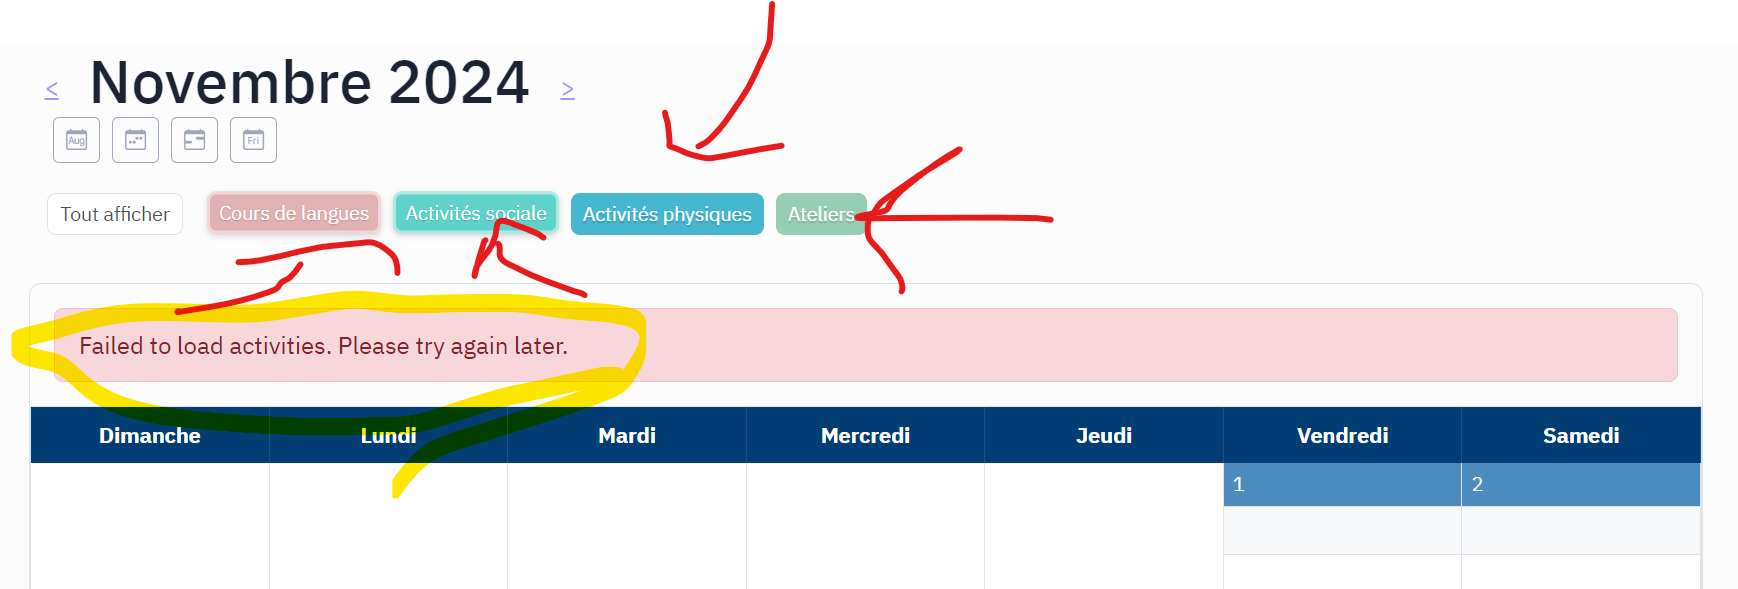
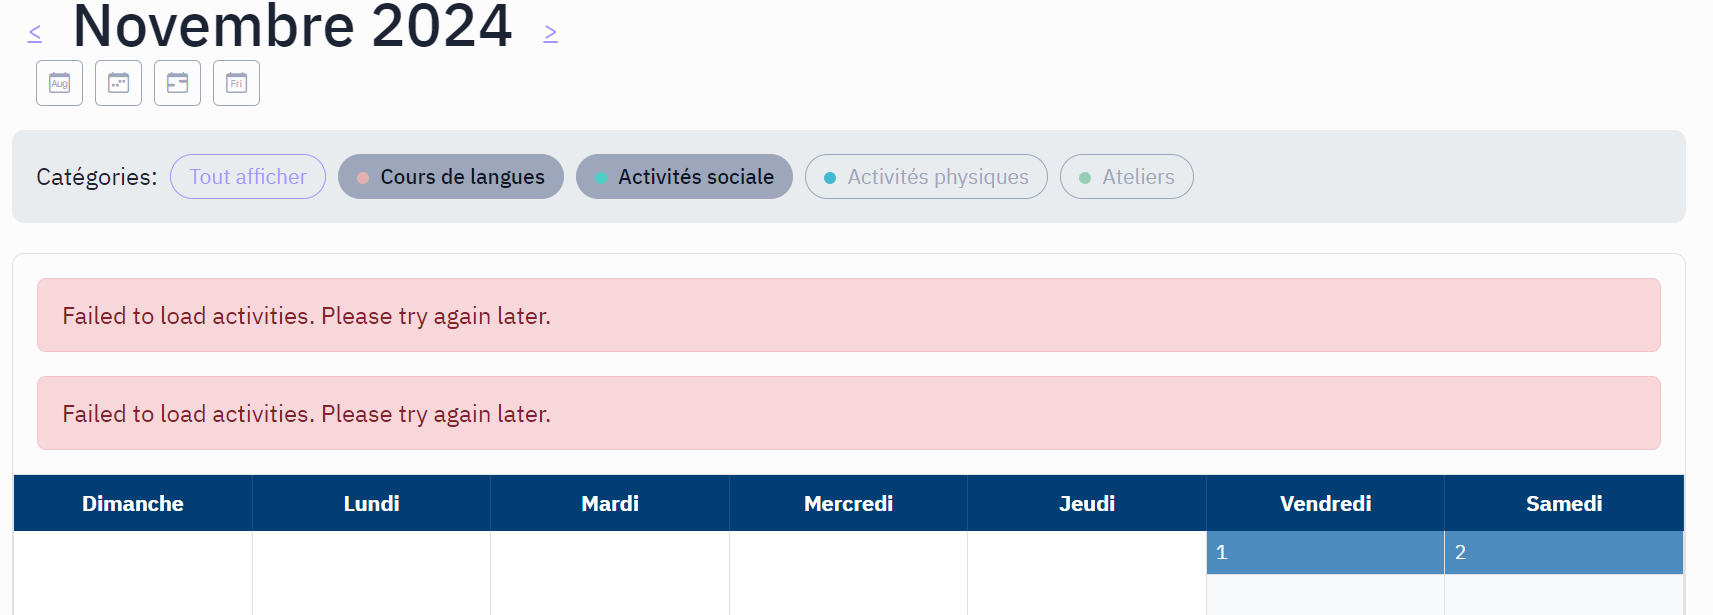
Agent query: Can you see the category filters above the calendar? Please verify if clicking on different category filters shows/hides the corresponding activities.

diff --git a/static/js/calendar.js b/static/js/calendar.js
@@ -51,25 +51,29 @@ document.addEventListener('DOMContentLoaded', function() {
     }
 
     function toggleCategory(categoryId) {
-        const categoryIdStr = categoryId.toString();
         const button = document.querySelector(`[data-category="${categoryId}"]`);
-        const showAllBtn = document.querySelector('[data-category="all"]');
-        
         if (!button) return;
-        
-        if (categoryIdStr === 'all') {
+
+        // Remove existing error message if any
+        const existingError = document.querySelector('.calendar-container .alert');
+        if (existingError) {
+            existingError.remove();
+        }
+
+        if (categoryId === 'all') {
             selectedCategories.clear();
             selectedCategories.add('all');
             document.querySelectorAll('#categoryFilters .btn').forEach(btn => {
                 btn.classList.remove('active');
             });
-            showAllBtn.classList.add('active');
+            button.classList.add('active');
         } else {
             if (selectedCategories.has('all')) {
                 selectedCategories.clear();
-                showAllBtn.classList.remove('active');
+                document.querySelector('[data-category="all"]').classList.remove('active');
             }
             
+            const categoryIdStr = categoryId.toString();
             if (selectedCategories.has(categoryIdStr)) {
                 selectedCategories.delete(categoryIdStr);
                 button.classList.remove('active');
@@ -77,44 +81,25 @@ document.addEventListener('DOMContentLoaded', function() {
                 selectedCategories.add(categoryIdStr);
                 button.classList.add('active');
             }
-            
-            if (selectedCategories.size === 0) {
-                selectedCategories.add('all');
-                showAllBtn.classList.add('active');
-            }
         }
-        
-        updateCalendar();
+
+        fetchActivities();
     }
 
     function shouldDisplayActivity(activity) {
         if (selectedCategories.has('all')) return true;
-        return activity.categories && 
-               activity.categories.some(category => selectedCategories.has(category.id.toString()));
+        if (!activity.category_ids || activity.category_ids.length === 0) return false;
+        return activity.category_ids.some(categoryId => selectedCategories.has(categoryId.toString()));
     }
 
-    function showError(message) {
-        const existingError = document.querySelector('.calendar-container .alert');
-        if (existingError) {
-            existingError.remove();
-        }
-
-        const errorDiv = document.createElement('div');
-        errorDiv.className = 'alert alert-danger';
-        errorDiv.textContent = message;
-        document.querySelector('.calendar-container').prepend(errorDiv);
-    }
-
-    async function fetchActivities(year, month) {
+    async function fetchActivities() {
         try {
-            const existingError = document.querySelector('.calendar-container .alert');
-            if (existingError) {
-                existingError.remove();
-            }
-
             const response = await fetch('/api/activities');
+            if (!response.ok) {
+                throw new Error('Network response was not ok');
+            }
             const activities = await response.json();
-
+            
             // Clear existing activities
             document.querySelectorAll('.all-day-activities, .timed-activities')
                 .forEach(container => {
@@ -122,6 +107,7 @@ document.addEventListener('DOMContentLoaded', function() {
                     container.style.height = 'auto';
                 });
 
+            // Filter and display activities
             activities.forEach(activity => {
                 if (!shouldDisplayActivity(activity)) return;
                 
@@ -140,7 +126,7 @@ document.addEventListener('DOMContentLoaded', function() {
             });
 
         } catch (error) {
-            console.error('Error loading activities:', error);
+            console.error('Error:', error);
             const errorDiv = document.createElement('div');
             errorDiv.className = 'alert alert-danger';
             errorDiv.textContent = 'Failed to load activities. Please try again later.';
@@ -241,7 +227,7 @@ document.addEventListener('DOMContentLoaded', function() {
                 break;
         }
 
-        fetchActivities(currentDate.getFullYear(), currentDate.getMonth());
+        fetchActivities();
     }
 
     function renderMonthView() {

diff --git a/static/css/style.css b/static/css/style.css
@@ -12,17 +12,33 @@
     background-color: var(--theme-light-purple);
     padding: 1rem;
     border-radius: 0.5rem;
-    margin-top: 1rem;
+    margin: 1rem 0;
+    box-shadow: 0 2px 4px rgba(0,0,0,0.05);
 }
 
 .category-filters .btn {
     font-size: 0.875rem;
     padding: 0.25rem 0.75rem;
     border-radius: 1rem;
+    transition: all 0.2s ease-in-out;
+}
+
+.category-filters .btn:hover {
+    transform: translateY(-1px);
 }
 
 .category-filters .btn.active {
     font-weight: 500;
+    box-shadow: 0 2px 4px rgba(0,0,0,0.1);
+}
+
+.category-filters .color-dot {
+    display: inline-block;
+    width: 8px;
+    height: 8px;
+    border-radius: 50%;
+    margin-right: 6px;
+    vertical-align: middle;
 }
 
 /* Error Message Styles */

diff --git a/templates/calendar.html b/templates/calendar.html
@@ -25,10 +25,10 @@
 
 <!-- Category Filters -->
 <div class="category-filters mb-3">
-    <div class="d-flex align-items-center">
-        <span class="me-2">{{ trans.categories }}:</span>
+    <div class="d-flex align-items-center flex-wrap gap-2">
+        <span class="me-2 fw-bold">{{ trans.categories }}:</span>
         <div id="categoryFilters" class="d-flex flex-wrap gap-2">
-            <button class="btn btn-sm btn-outline-primary active" data-category="all">{{ trans.show_all }}</button>
+            <button class="btn btn-sm btn-primary active" data-category="all">{{ trans.show_all }}</button>
         </div>
     </div>
 </div>
